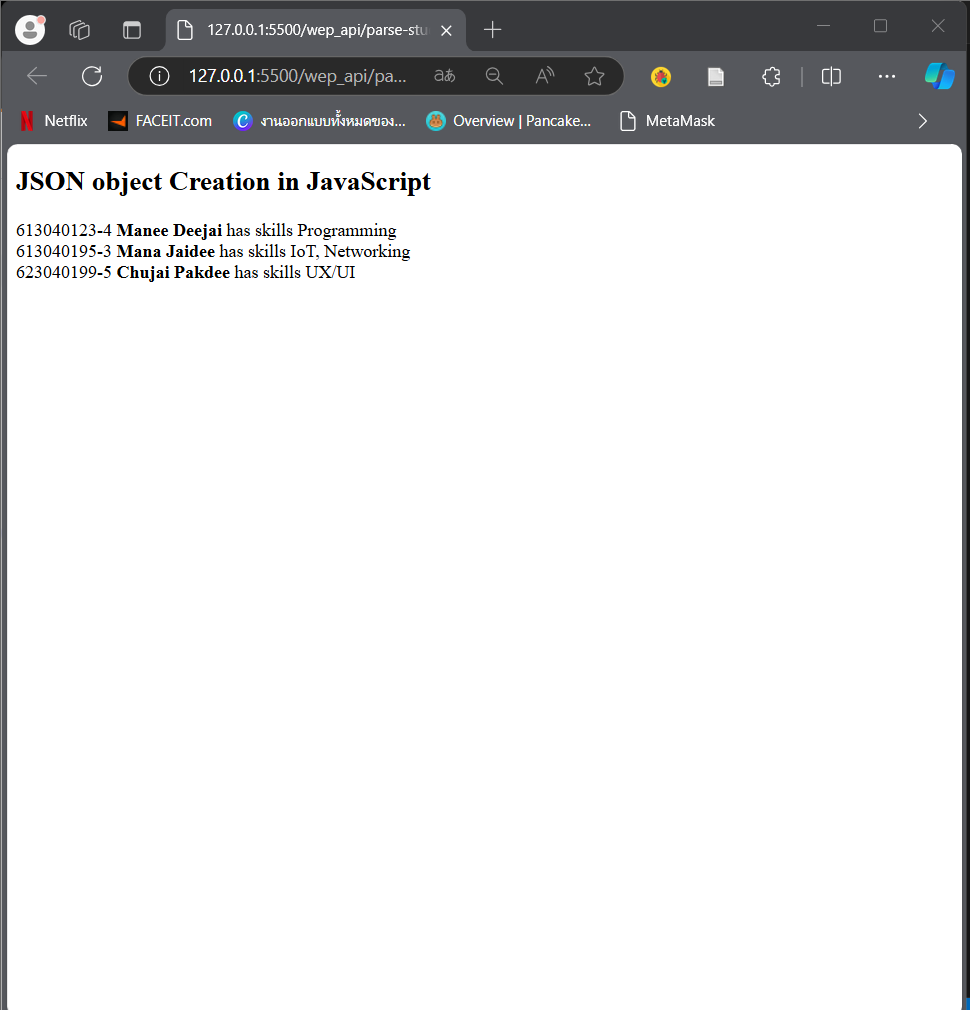
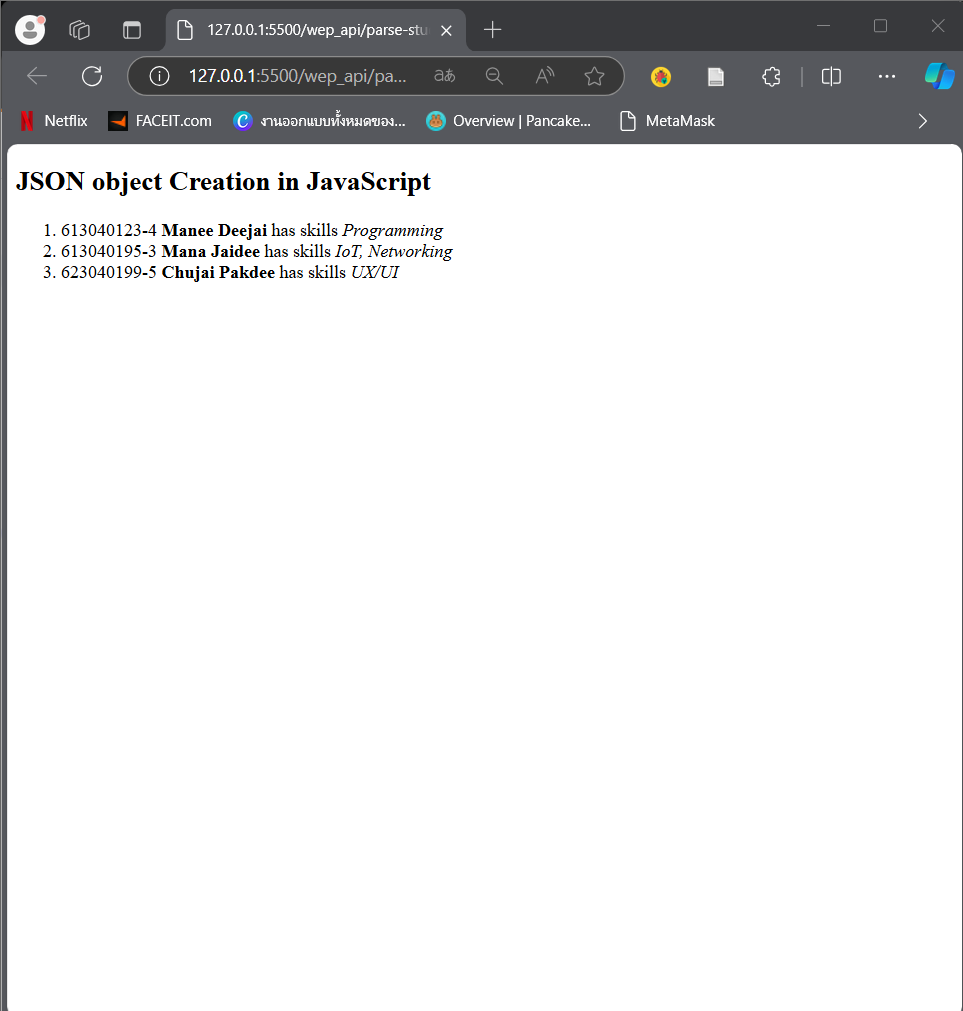
add new read json

diff --git a/wep_api/parse-students-file.html b/wep_api/parse-students-file.html
@@ -10,11 +10,11 @@
         fetch("strudent.json")
         .then((response) => {return response.json();})
         .then((data) => {
-            let list = document.createElement("li");
+            
             wclass = data.wclass;
             for (let person of wclass) {
-                document.getElementById("test").innerHTML 
-                += person.student["@attributes"].id + " " + "<b>" + person.student.name +"</b>" + " has skills " + person.student.skill + "<br/>" ;
+                document.getElementById("list").innerHTML 
+                += "<li>"+person.student["@attributes"].id + " " + "<b>" + person.student.name +"</b>" + " has skills " + "<i>" + person.student.skill +"</i>"+ "</li>" ;
             }
 
 
